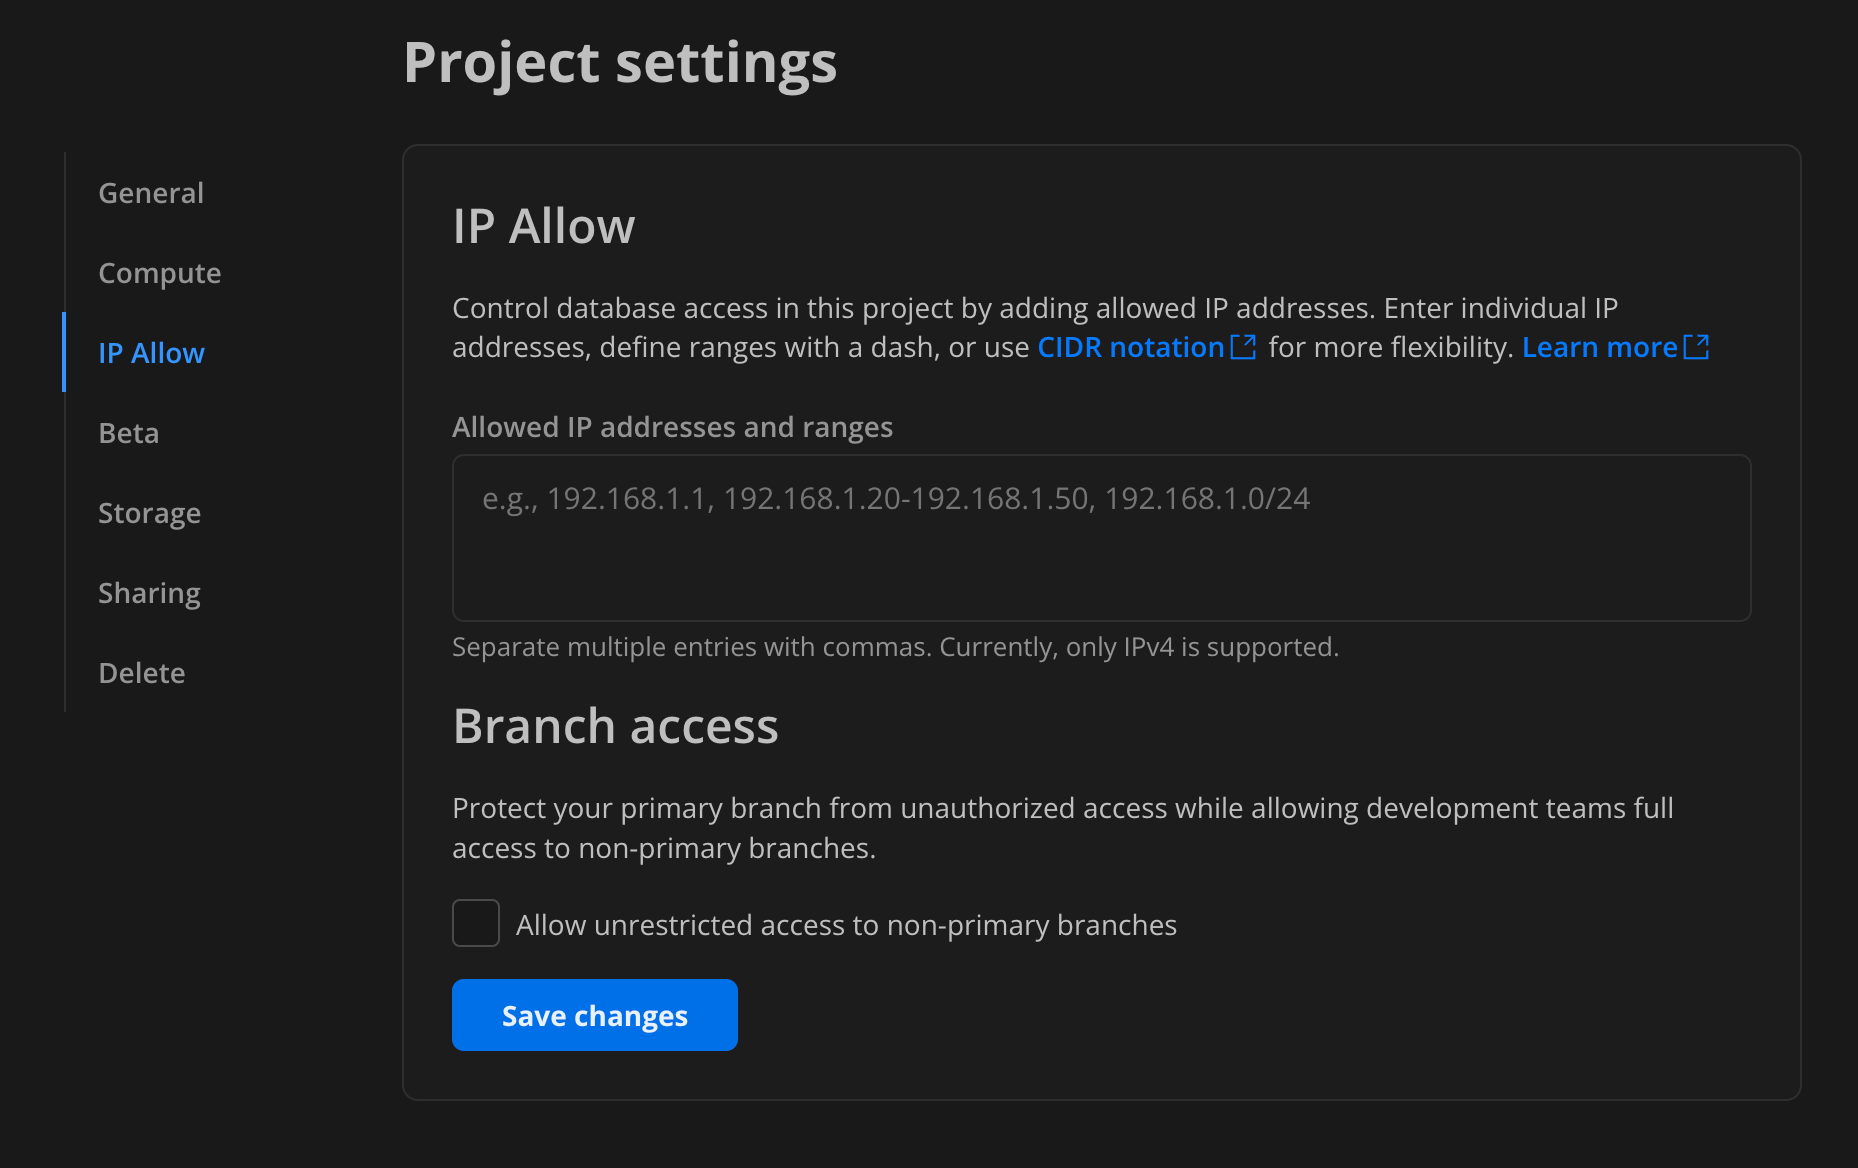
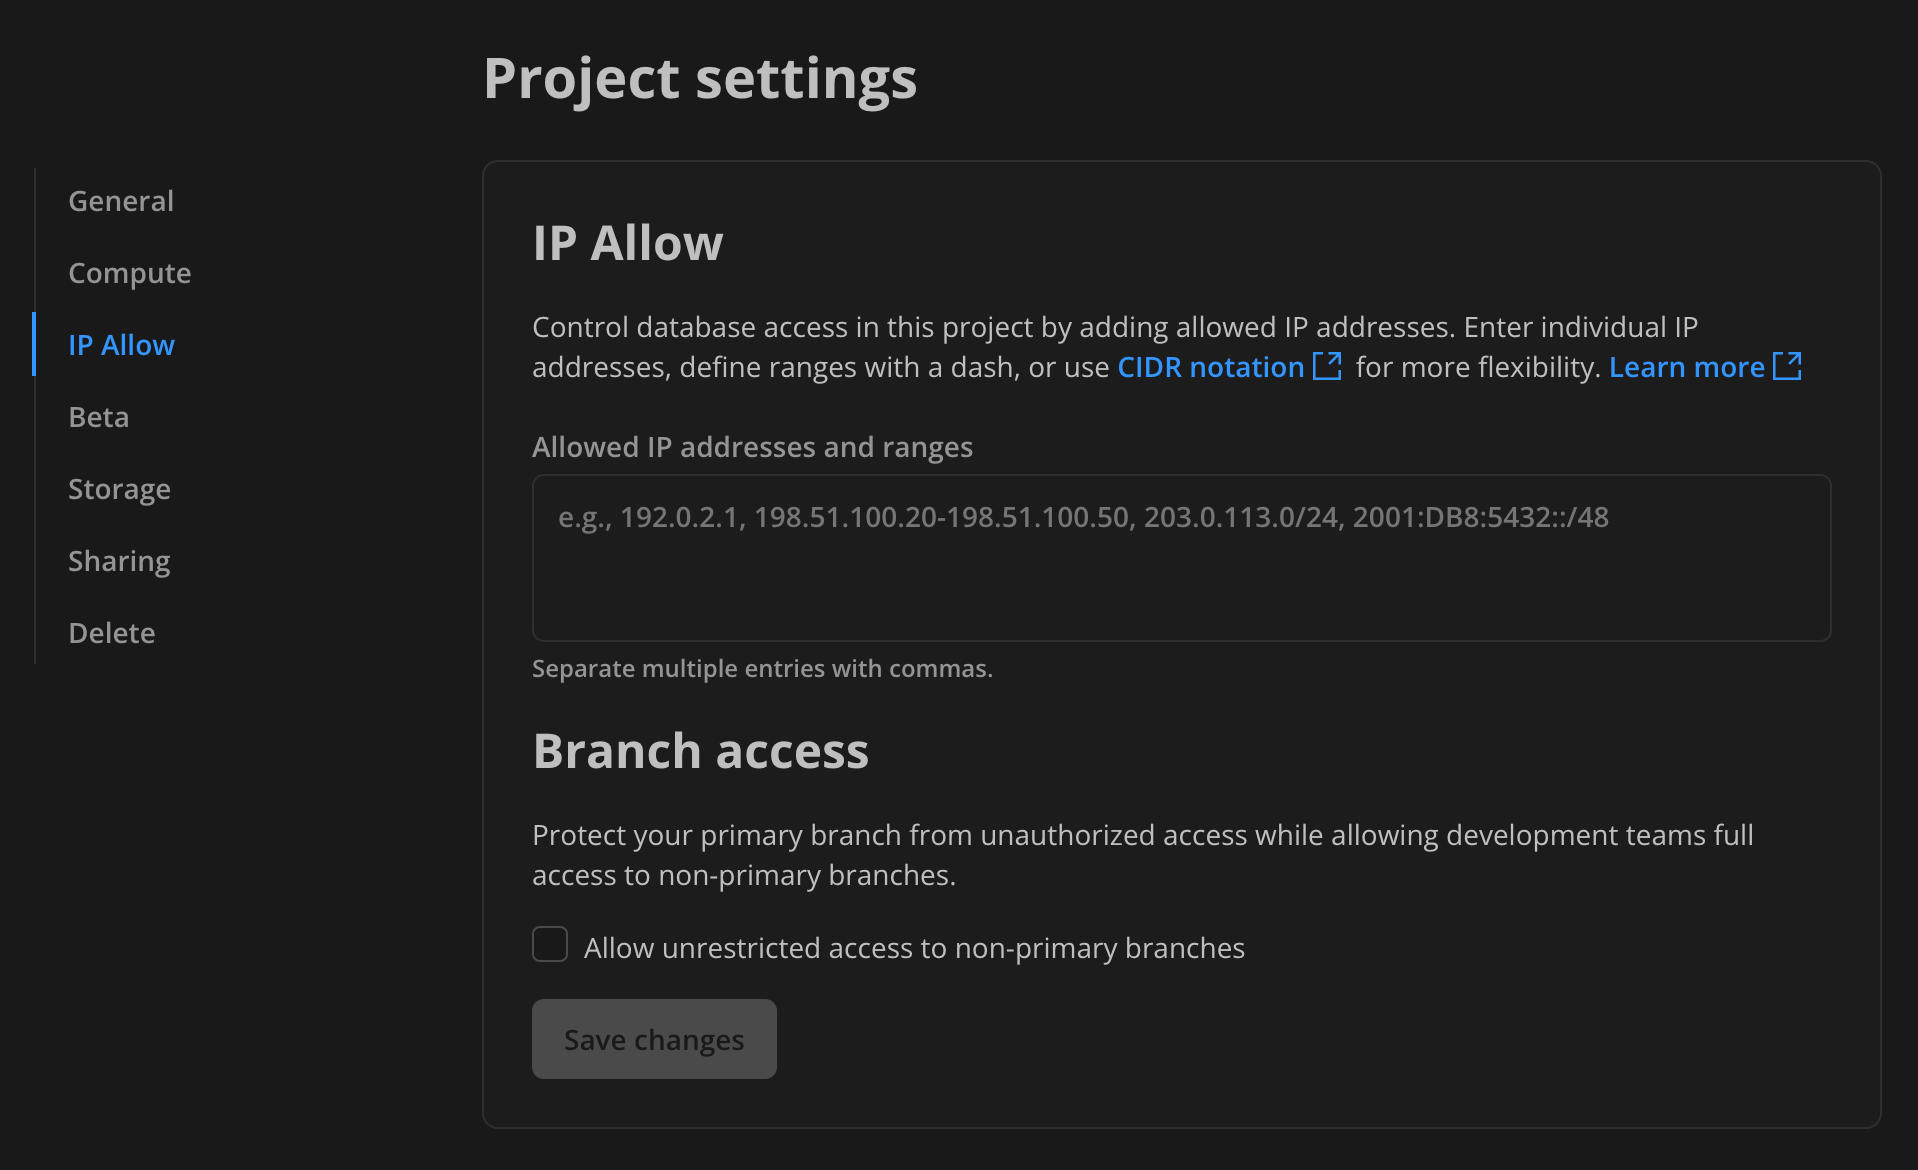
Update IP Allow docs and IP addresses

diff --git a/content/docs/manage/projects.md b/content/docs/manage/projects.md
@@ -195,7 +195,7 @@ Optionally, you can allow unrestricted access to your project's [non-primary bra
 By default, Neon allows IP addresses from `0.0.0.0`, which means that Neon accepts connections from any IP address. Once you configure IP Allow by adding IP addresses or ranges, only those IP addresses will be allowed to access Neon.
 
 <Admonition type="note">
-Currently, Neon only supports [IPv4](https://en.wikipedia.org/wiki/Internet_Protocol_version_4).
+Currently, supports both [IPv4](https://en.wikipedia.org/wiki/Internet_Protocol_version_4) and [IPv6](https://en.wikipedia.org/wiki/IPv6) addresses.
 </Admonition>
 
 <Tabs labels={["Neon Console", "CLI", "API"]}>
@@ -219,25 +219,25 @@ To configure an allowlist:
 The [Neon CLI ip-allow command](/docs/reference/cli-ip-allow) supports IP Allow configuration. For example, the following `add` command adds IP addresses to the allowlist for an existing Neon project. Multiple entries are separated by a space. No delimiter is required.
 
 ```bash
-neonctl ip-allow add 192.168.1.1 192.168.1.2
+neonctl ip-allow add 203.0.113.0 203.0.113.1
 ┌─────────────────────┬─────────────────────┬──────────────┬─────────────────────┐
 │ Id                  │ Name                │ IP Addresses │ Primary Branch Only │
 ├─────────────────────┼─────────────────────┼──────────────┼─────────────────────┤
-│ wispy-haze-26469780 │ wispy-haze-26469780 │ 192.168.1.1  │ false               │
-│                     │                     │ 192.168.1.2  │                     │
+│ wispy-haze-26469780 │ wispy-haze-26469780 │ 203.0.113.0  │ false               │
+│                     │                     │ 203.0.113.1  │                     │
 └─────────────────────┴─────────────────────┴──────────────┴─────────────────────┘
 ```
 
 To apply an IP allowlist to the primary branch only, use the you can `--primary-only` option:
 
 ```bash
-neonctl ip-allow add 192.168.1.1 --primary-only
+neonctl ip-allow add 203.0.113.1 --primary-only
 ```
 
 To reverse that setting, use `--primary-only false`.
 
 ```bash
-neonctl ip-allow add 192.168.1.1 --primary-only false
+neonctl ip-allow add 203.0.113.1 --primary-only false
 ```
 
 </TabItem>
@@ -259,7 +259,7 @@ curl -X PATCH \
       "allowed_ips": {
         "primary_branch_only": true,
         "ips": [
-          "192.168.1.1", "192.168.1.2"
+          "203.0.113.0", "203.0.113.1"
         ]
       }
     }
@@ -278,34 +278,40 @@ You can define an allowlist with individual IP addresses, IP ranges, or [CIDR no
 - **Add individual IP addresses**: You can add individual IP addresses that you want to allow. This is useful for granting access to specific users or devices. This example represents a single IP address:
 
   ```text
-  192.168.1.15
+  192.0.2.1
   ```
 
-- **Define IP ranges**: For broader access control, you can define IP ranges. This is useful for allowing access from a company network or a range of known IPs. This example range includes all IP addresses from `192.168.1.20` to `192.168.1.30`: 
+- **Define IP ranges**: For broader access control, you can define IP ranges. This is useful for allowing access from a company network or a range of known IPs. This example range includes all IP addresses from `198.51.100.20` to `198.51.100.50`: 
 
   ```text
-  192.168.1.20-192.168.1.30
+  198.51.100.20-198.51.100.50
   ```
 
 - **Use CIDR notation**: For more advanced control, you can use [CIDR (Classless Inter-Domain Routing) notation](/docs/reference/glossary#cidr-notation). This is a compact way of defining a range of IPs and is useful for larger networks or subnets. Using CIDR notation can be advantageous when managing access to branches with numerous potential users, such as in a large development team or a company-wide network.
 
-  This CIDR notation example represents all 256 IP addresses from  `192.168.1.0` to `192.168.1.255`. 
+  This CIDR notation example represents all 256 IP addresses from  `203.0.113.0` to `203.0.113.255`. 
 
   ```text
-  192.168.1.0/24
+  203.0.113.0/24
+  ```
+
+- **Use IPv6 addresses**: Neon also supports specifying IPv6 addresses. For example:
+
+  ```text
+  2001:DB8:5432::/48
   ```
 
 A combined example using all three options above, specified as a comma-separated list, would appear similar to the following:
 
   ```text
-  192.168.1.15, 192.168.1.16, 192.168.1.20-192.168.1.30, 192.168.1.0/24S
+  192.0.2.1, 198.51.100.20-198.51.100.50, 203.0.113.0/24, 2001:DB8:5432::/48
   ```
 
-This list combines individual IP addresses, a range of IP addresses, and a CIDR block. It illustrates how different types of IP specifications can be used together in a single allowlist configuration, offering a flexible approach to access control.
+This list combines individual IP addresses, a range of IP addresses, a CIDR block, and an IPv6 address. It illustrates how different types of IP specifications can be used together in a single allowlist configuration, offering a flexible approach to access control.
 
 #### Update an IP Allow configuration
 
-You can update your IP Allow configuration via the Neon Console or API as described in [Configure IP Allow](#configure-ip-allow). Replace the current configuration with the new configuration. For example, if your IP Allow configuration currently allows access from IP address `192.168.1.1`, and you want to extend access to IP address `192.168.1.2`, specify both addresses in your new configuration: `192.168.1.1, 192.168.1.2`. You cannot append values to an existing configuration. You can only replace an existing configuration with a new one.
+You can update your IP Allow configuration via the Neon Console or API as described in [Configure IP Allow](#configure-ip-allow). Replace the current configuration with the new configuration. For example, if your IP Allow configuration currently allows access from IP address `192.0.2.1`, and you want to extend access to IP address `192.0.2.2`, specify both addresses in your new configuration: `192.0.2.1, 192.0.2.2`. You cannot append values to an existing configuration. You can only replace an existing configuration with a new one.
 
 The Neon CLI provides an `ip-allow` command with `add`, `reset`, and `remove` options that you can use to update your IP Allow configuration. For instructions, refer to [Neon CLI commands — ip-allow](/docs/reference/cli-ip-allow).
 

diff --git a/content/docs/reference/glossary.md b/content/docs/reference/glossary.md
@@ -71,7 +71,7 @@ Continuous integration and continuous delivery or continuous deployment.
 
 ## CIDR notation
 
-CIDR (Classless Inter-Domain Routing) notation is a method used to define ranges of IP addresses in network management. It is presented in the format of an IP address, followed by a slash, and then a number (e.g., 192.168.1.0/24). The number after the slash represents the size of the address block, providing a compact way to specify a large range of IP addresses. In Neon's IP Allow feature, CIDR notation allows for efficiently specifying a block of IP addresses, especially useful for larger networks or subnets. This can be advantageous when managing access to branches with numerous potential users, such as in a large development team or a company-wide network. For related information, see [Configure IP Allow](/docs/manage/projects#configure-ip-allow).
+CIDR (Classless Inter-Domain Routing) notation is a method used to define ranges of IP addresses in network management. It is presented in the format of an IP address, followed by a slash, and then a number (e.g., 203.0.113.0/24). The number after the slash represents the size of the address block, providing a compact way to specify a large range of IP addresses. In Neon's IP Allow feature, CIDR notation allows for efficiently specifying a block of IP addresses, especially useful for larger networks or subnets. This can be advantageous when managing access to branches with numerous potential users, such as in a large development team or a company-wide network. For related information, see [Configure IP Allow](/docs/manage/projects#configure-ip-allow).
 
 ## cgroups
 

diff --git a/content/docs/reference/cli-projects.md b/content/docs/reference/cli-projects.md
@@ -229,7 +229,7 @@ neonctl projects update muddy-wood-859533 --name dev_project_1
 Update the IP allowlist. Multiple values are specified as a list without a delimiter.
 
 ```bash
-neonctl projects update withered-dream-91802149 --ip-allow 192.168.1.1 192.168.1.2 
+neonctl projects update withered-dream-91802149 --ip-allow 192.0.2.1 192.0.2.2 
 ┌─────────────────────────┬───────────┬───────────────┬──────────────────────┐
 │ Id                      │ Name      │ Region Id     │ Created At           │
 ├─────────────────────────┼───────────┼───────────────┼──────────────────────┤

diff --git a/content/docs/reference/cli-ip-allow.md b/content/docs/reference/cli-ip-allow.md
@@ -83,7 +83,7 @@ In addition to the Neon CLI [global options](/docs/reference/neon-cli#global-opt
 #### Example
 
 ```bash shouldWrap
-neonctl ip-allow add 192.168.1.3 --project-id cold-grass-40154007
+neonctl ip-allow add 192.0.2.3 --project-id cold-grass-40154007
 ```
 
 ### remove
@@ -108,7 +108,7 @@ In addition to the Neon CLI [global options](/docs/reference/neon-cli#global-opt
 #### Example
 
 ```bash shouldWrap
-neonctl ip-allow remove 192.168.1.3 --project-id cold-grass-40154007
+neonctl ip-allow remove 192.0.2.3 --project-id cold-grass-40154007
 ```
 
 ### reset
@@ -133,7 +133,7 @@ In addition to the Neon CLI [global options](/docs/reference/neon-cli#global-opt
 #### Example
 
 ```bash shouldWrap
-neonctl ip-allow reset 192.168.1.1 --project-id cold-grass-40154007
+neonctl ip-allow reset 192.0.2.1 --project-id cold-grass-40154007
 ```
 
 <NeedHelp/>
